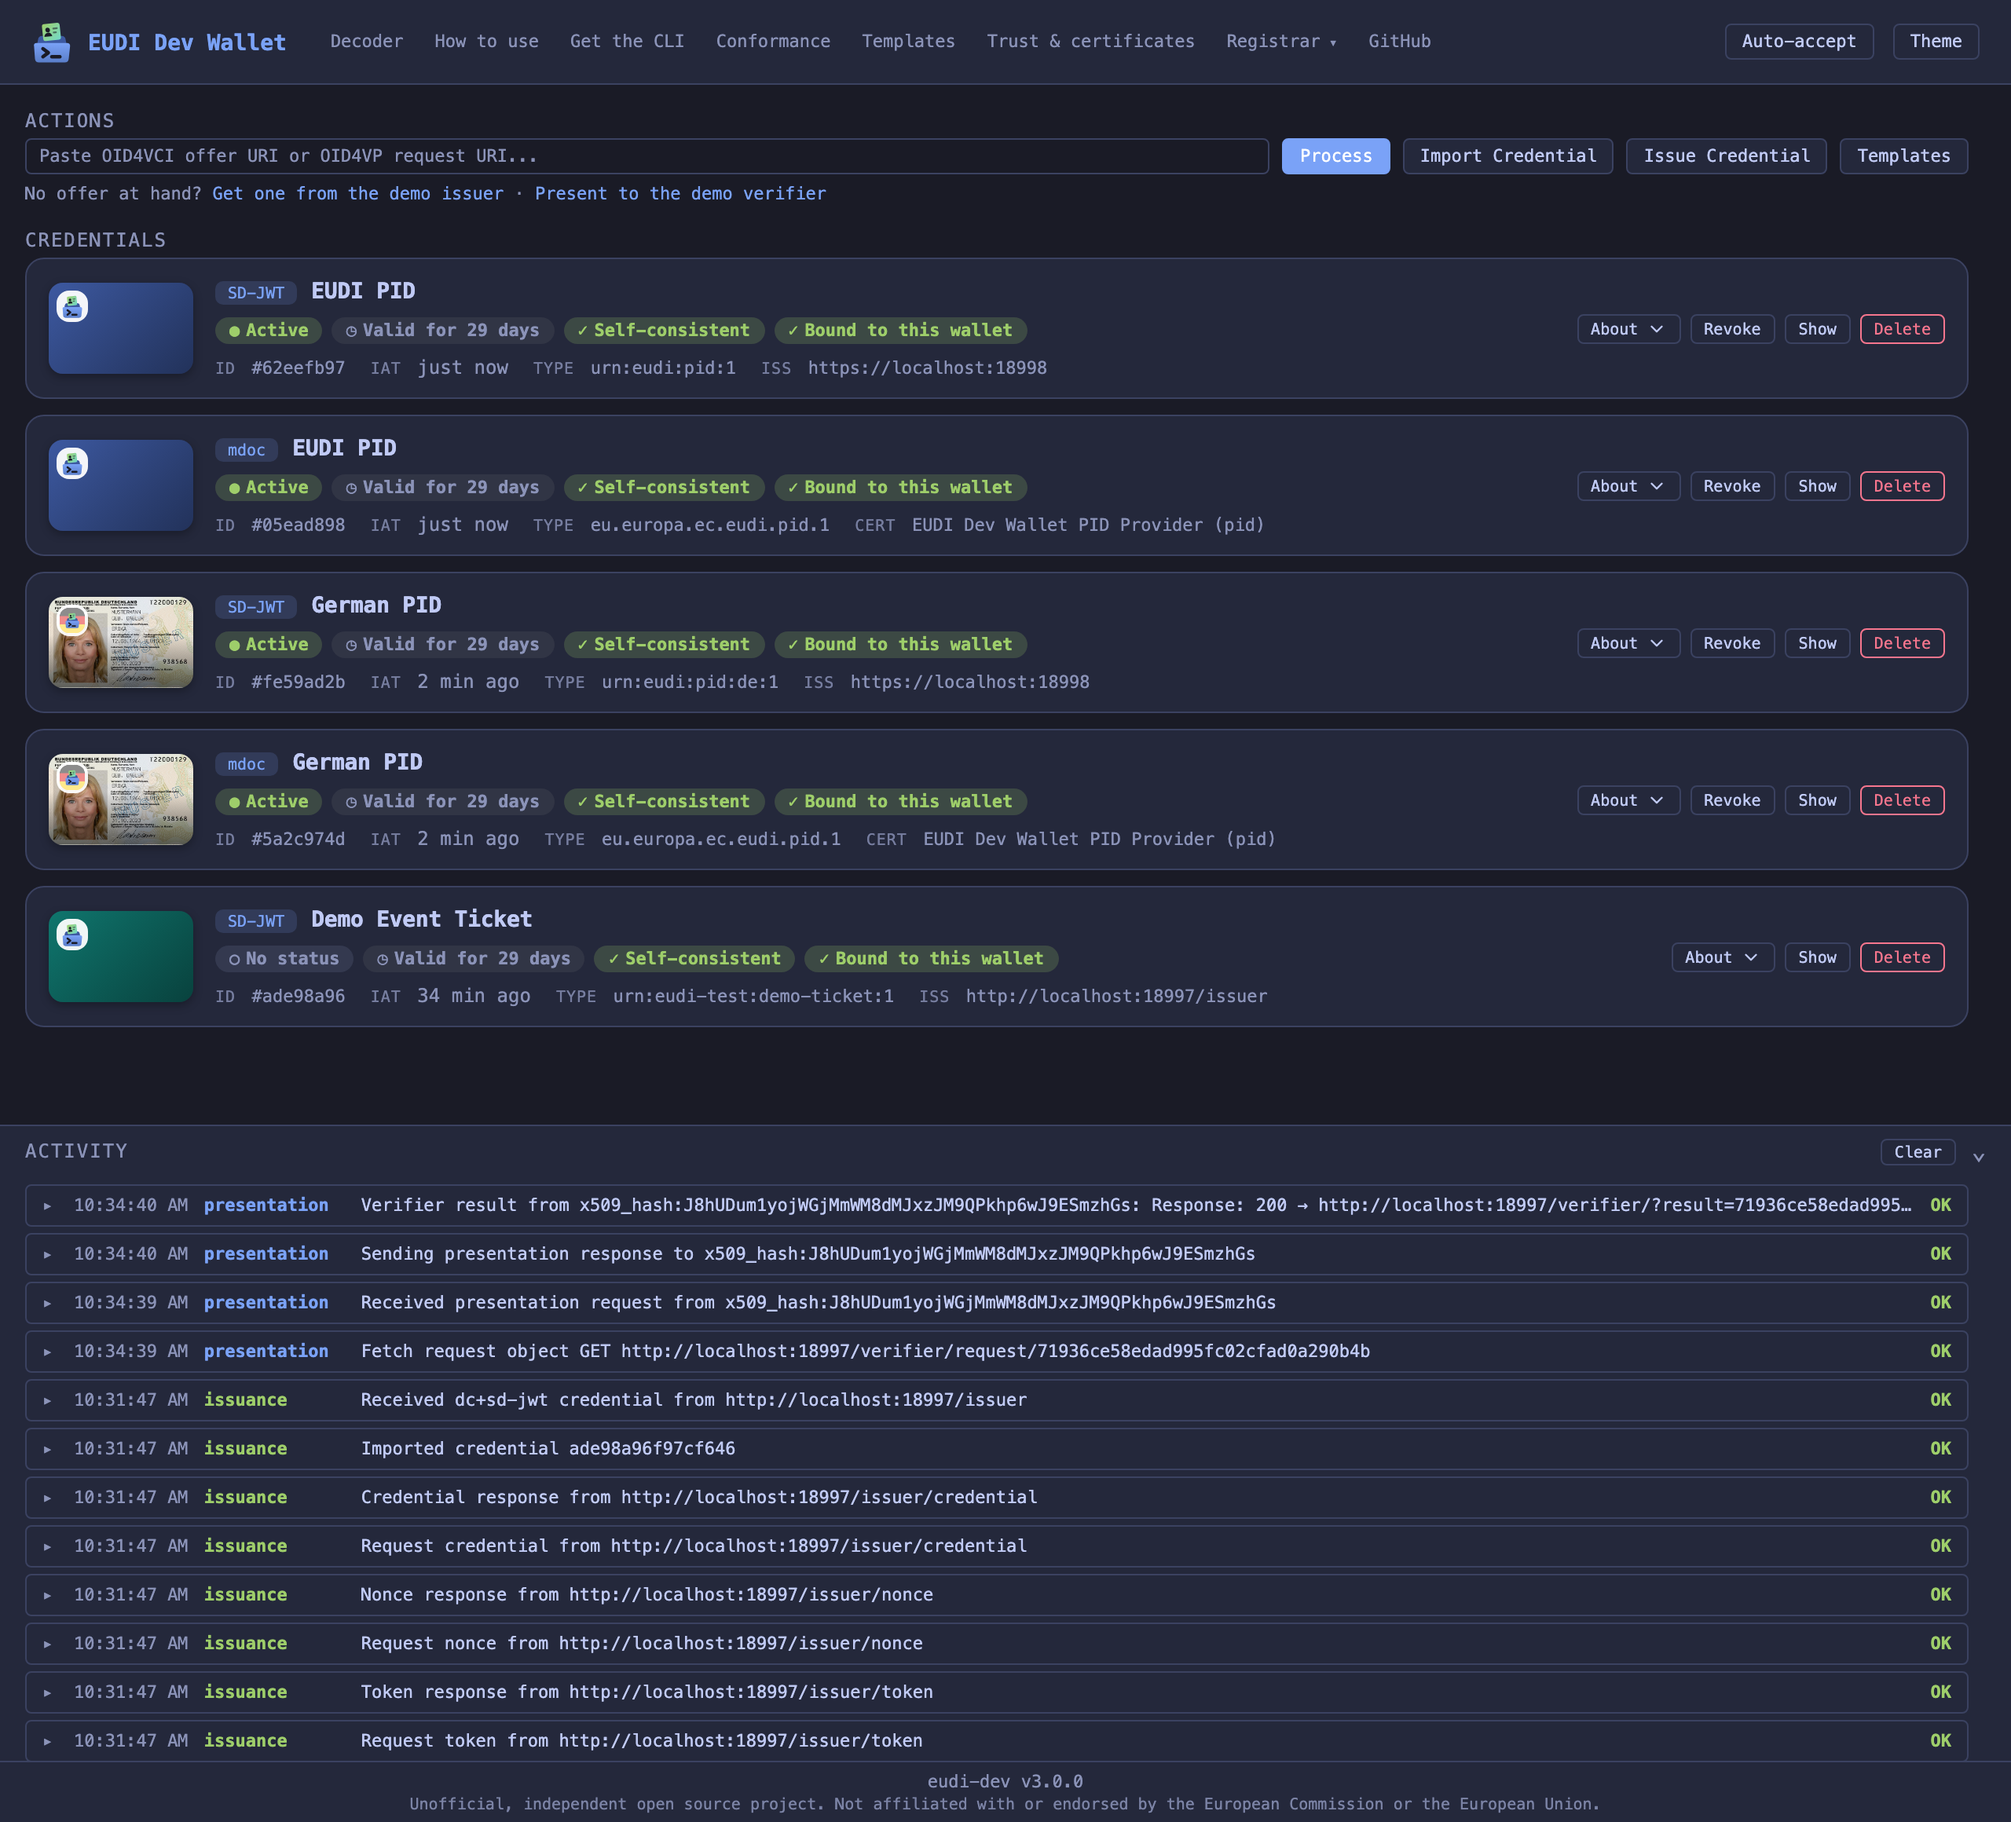
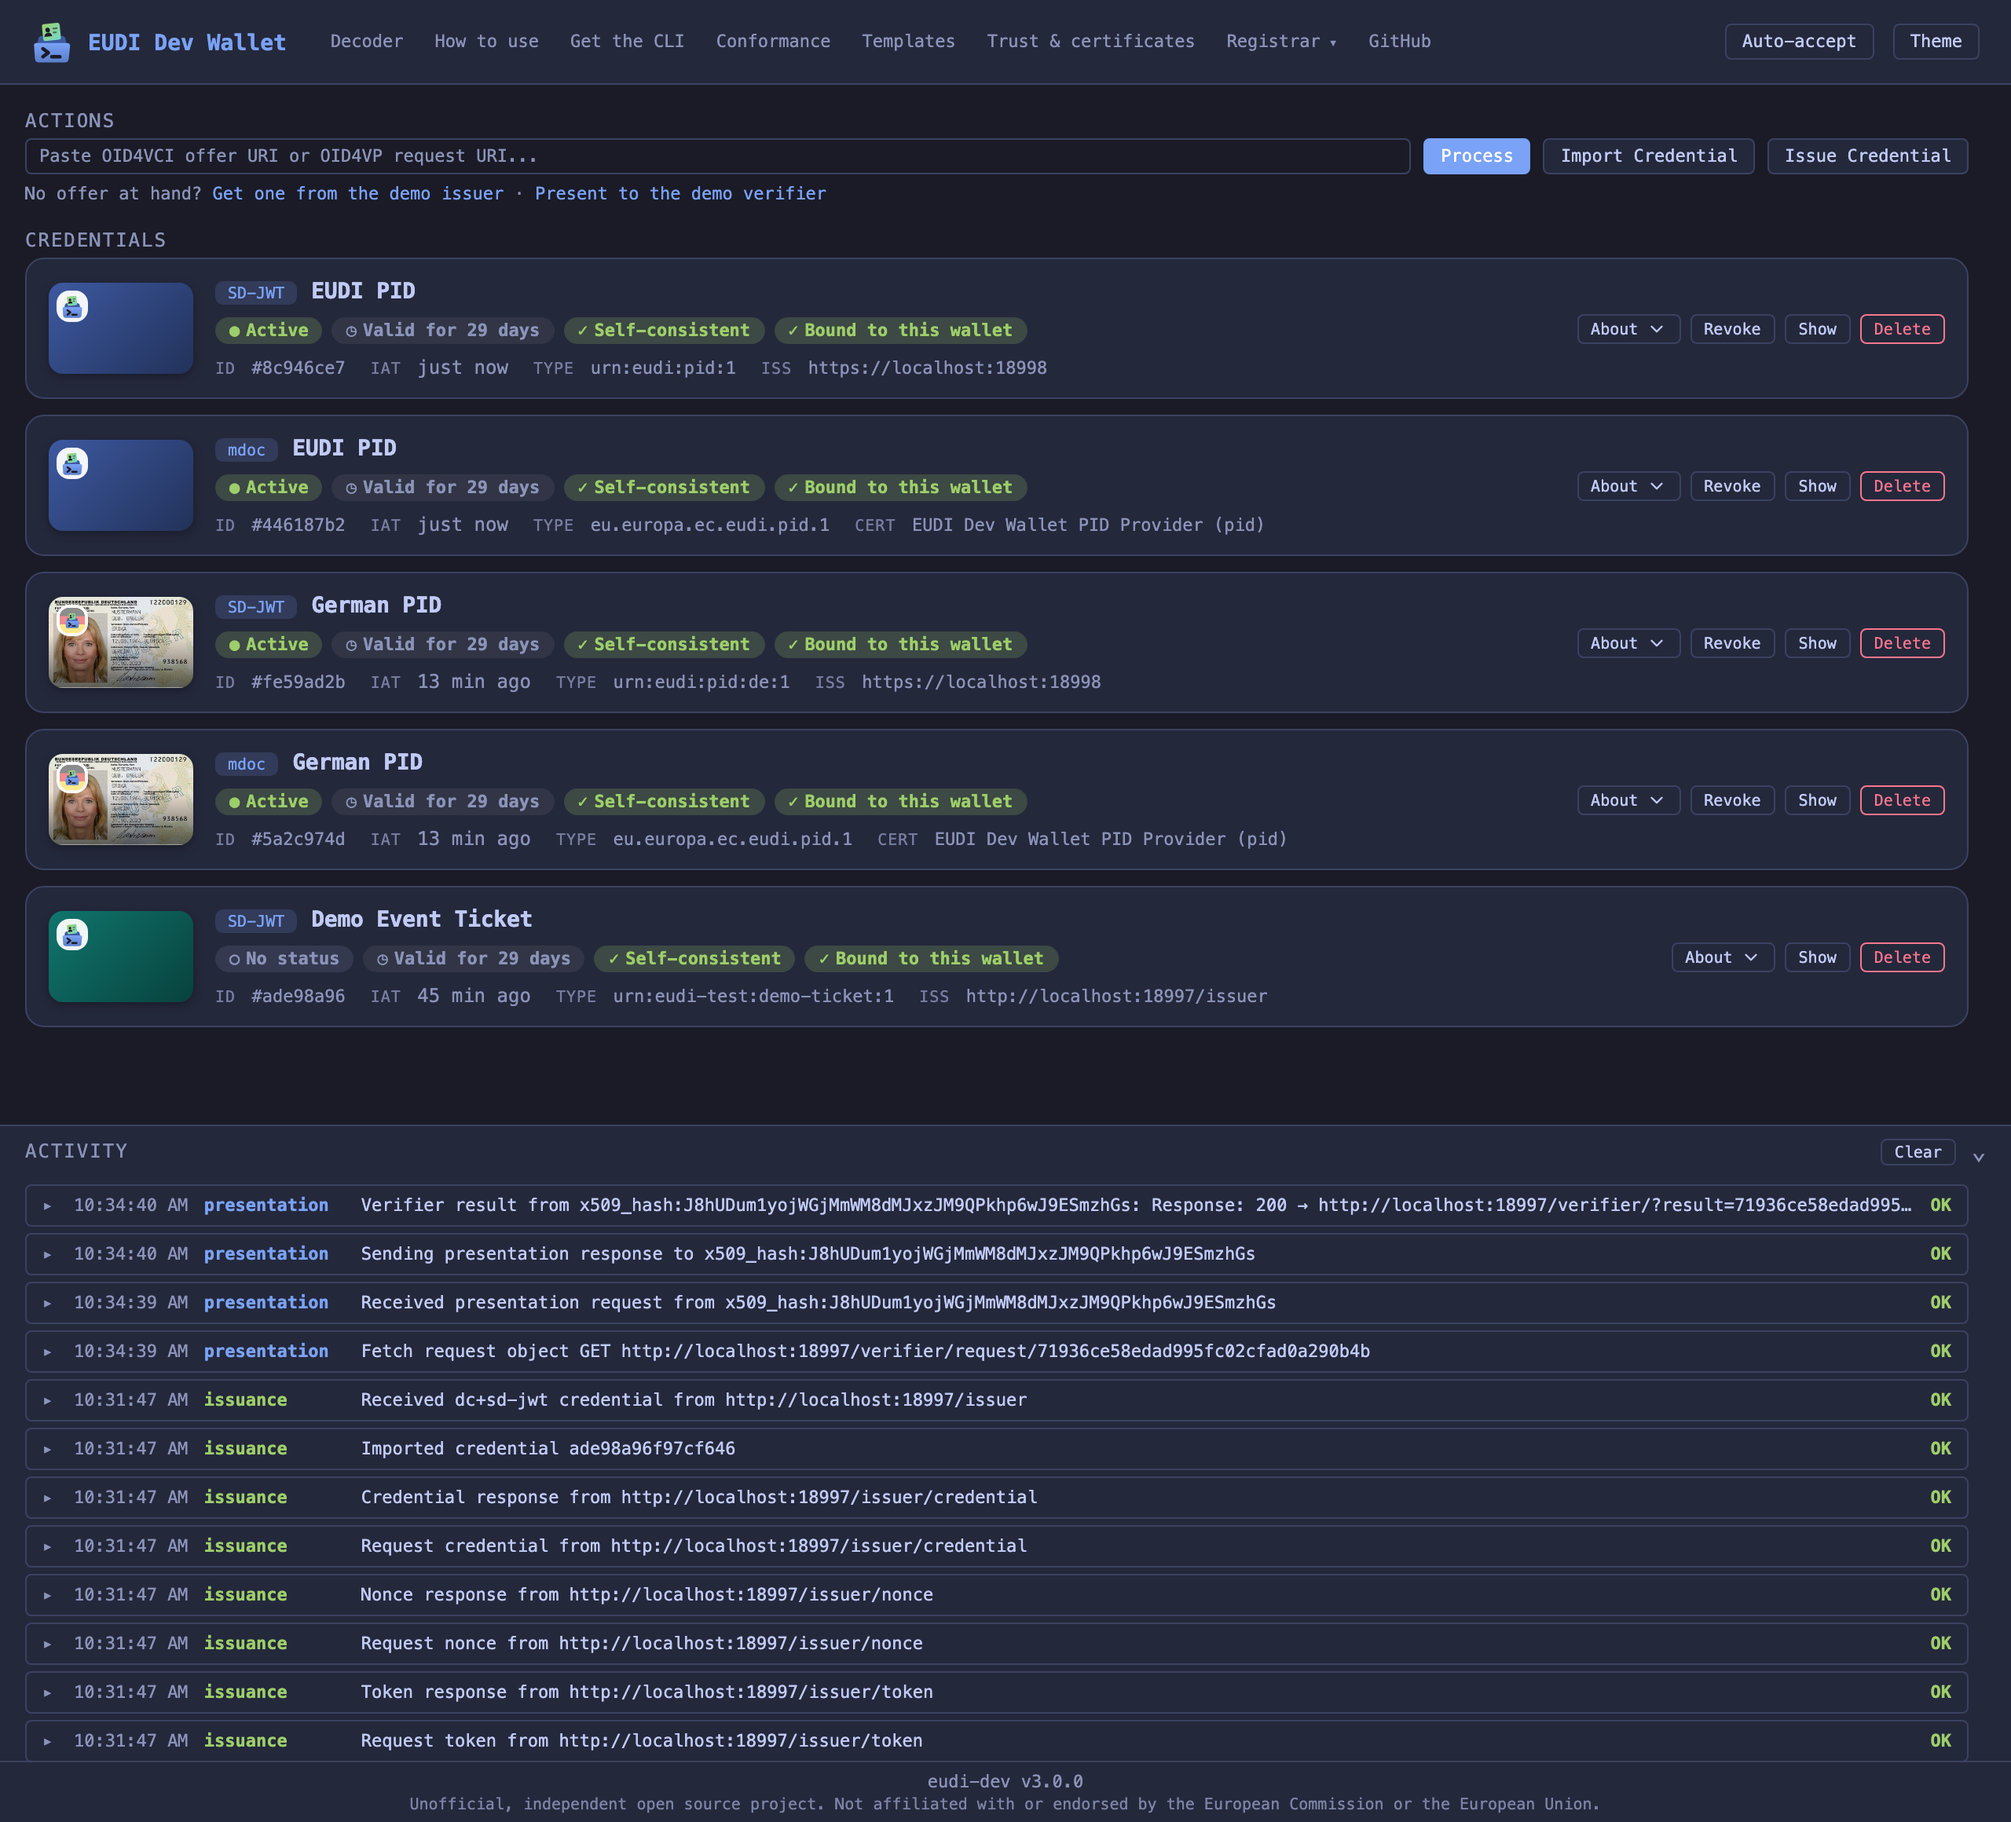
fix: offer the catalogue in the issue dialog only with a template name and drop the duplicate Templates button

diff --git a/internal/wallet/static/app.js b/internal/wallet/static/app.js
@@ -1073,6 +1073,15 @@
   }
   const issueCatalog = catalogFields('issue');
   linkCategoryLevel('issue');
+  // The catalogue takes a template, so issuing offers it only with a
+  // template name. The template editor always offers it.
+  function syncIssueCatalog() {
+    const show = issueForm.classList.contains('template-mode') ||
+      document.getElementById('issue-save-template').value.trim() !== '';
+    document.querySelectorAll('.issue-catalog-part').forEach((el) => { el.hidden = !show; });
+    if (!show) issueCatalog.reset();
+  }
+  document.getElementById('issue-save-template').addEventListener('input', syncIssueCatalog);
 
   // Reset other fields when the format changes because their values may not apply.
   function resetIssueFields() {
@@ -1084,6 +1093,7 @@
     document.getElementById('issue-binding').value = 'bound';
     document.getElementById('issue-save-template').value = '';
     issueCatalog.reset();
+    syncIssueCatalog();
     document.getElementById('issue-status-list').value = 'auto';
     document.getElementById('issue-status-list-uri').value = '';
     document.getElementById('issue-status-list-uri').hidden = true;
@@ -1314,6 +1324,7 @@
     templateEditor = editor;
     const on = editor !== null;
     issueForm.classList.toggle('template-mode', on);
+    syncIssueCatalog();
     templateEditorHead.hidden = !on;
     document.getElementById('issue-title').textContent = on ? (editor.source ? 'Edit template' : 'New template') : 'Issue Credential';
     document.getElementById('issue-hint').textContent = on
@@ -1523,7 +1534,6 @@
     templatesOverlay.classList.add('active');
     renderTemplatesList();
   }
-  document.getElementById('templates-btn').addEventListener('click', openTemplates);
   document.getElementById('templates-link').addEventListener('click', (event) => {
     event.preventDefault();
     openTemplates();

diff --git a/internal/wallet/static/index.html b/internal/wallet/static/index.html
@@ -63,7 +63,6 @@
         <button class="btn btn-primary" id="process-btn">Process</button>
         <button class="btn" id="import-btn">Import Credential</button>
         <button class="btn" id="issue-btn">Issue Credential</button>
-        <button class="btn" id="templates-btn">Templates</button>
       </div>
       <div class="actions-hint">
         No offer at hand? <a href="issuer/">Get one from the demo issuer</a>
@@ -701,8 +700,8 @@ openssl req -new -key verifier.key -subj "/" -out verifier.csr</pre>
           <label class="form-label issue-only" for="issue-save-template">Save as template</label>
           <input type="text" id="issue-save-template" class="form-input issue-only" placeholder="Template name (optional)">
 
-          <label class="form-label" for="issue-catalog">Catalogue</label>
-          <label class="conf-toggle"><input type="checkbox" id="issue-catalog"> Add the template to the attestation catalogue</label>
+          <label class="form-label issue-catalog-part" for="issue-catalog" hidden>Catalogue</label>
+          <label class="conf-toggle issue-catalog-part" hidden><input type="checkbox" id="issue-catalog"> Add the template to the attestation catalogue</label>
           <div class="catalog-fields form-grid" id="issue-catalog-fields" hidden>
             <label class="form-label" for="issue-catalog-name">Attestation name</label>
             <input type="text" id="issue-catalog-name" class="form-input" placeholder="Name in the catalogue">

diff --git a/e2e/wallet.spec.js b/e2e/wallet.spec.js
@@ -797,7 +797,7 @@ test.describe("Credential Issuing via UI", () => {
   }) => {
     await page.goto(WALLET_URL);
 
-    await page.locator("#templates-btn").click();
+    await page.locator("#templates-link").click();
     await expect(page.locator("#templates-overlay")).toHaveClass(/active/);
     await expect(
       page.locator(".template-row-name", { hasText: "german-pid-sdjwt" })
@@ -868,7 +868,7 @@ test.describe("Credential Issuing via UI", () => {
     await page.locator(`#delete-${issued.id}`).click();
     await expect(page.locator(`#credential-${issued.id}`)).toHaveCount(0);
 
-    await page.locator("#templates-btn").click();
+    await page.locator("#templates-link").click();
     const templateRow = page
       .locator(".template-row")
       .filter({ hasText: "e2e-employee" });
@@ -886,7 +886,10 @@ test.describe("Credential Issuing via UI", () => {
     await page.locator("#issue-vct").fill("urn:example:e2e-saved");
     await page.locator("#issue-claim-key-0").fill("member_id");
     await page.locator("#issue-claim-value-0").fill("M-1");
+    // The catalogue takes a template, so it appears with the template name.
+    await expect(page.locator("#issue-catalog")).toBeHidden();
     await page.locator("#issue-save-template").fill("e2e-saved-template");
+    await expect(page.locator("#issue-catalog")).toBeVisible();
 
     await page.locator("#issue-submit").click();
     await expect(page.locator("#issue-overlay")).not.toHaveClass(/active/);

diff --git a/e2e/demo.spec.js b/e2e/demo.spec.js
@@ -1277,7 +1277,7 @@ test.describe("Demo mode hardening", () => {
 
   test("the UI hides what demo mode does not offer", async ({ page }) => {
     await page.goto(BASE);
-    await expect(page.locator("#templates-btn")).toBeVisible();
+    await expect(page.locator("#templates-link")).toBeVisible();
     await expect(page.locator("#tls-cert-pem-link")).toBeHidden();
     await expect(page.locator("#clear-log-btn")).toBeHidden();
     await expect(page.locator("#decoder-link")).toBeVisible();
@@ -1294,7 +1294,7 @@ test.describe("Demo mode hardening", () => {
     // Unique names keep a retry clear of the entries of an earlier attempt.
     const id = "e2e-visitor-" + Date.now();
     await page.goto(BASE);
-    await page.locator("#templates-btn").click();
+    await page.locator("#templates-link").click();
     await expect(page.locator("#template-delete-pid-sdjwt")).toHaveCount(0);
     await page.locator("#template-new").click();
     await page.locator("#template-editor-name").fill(id);
